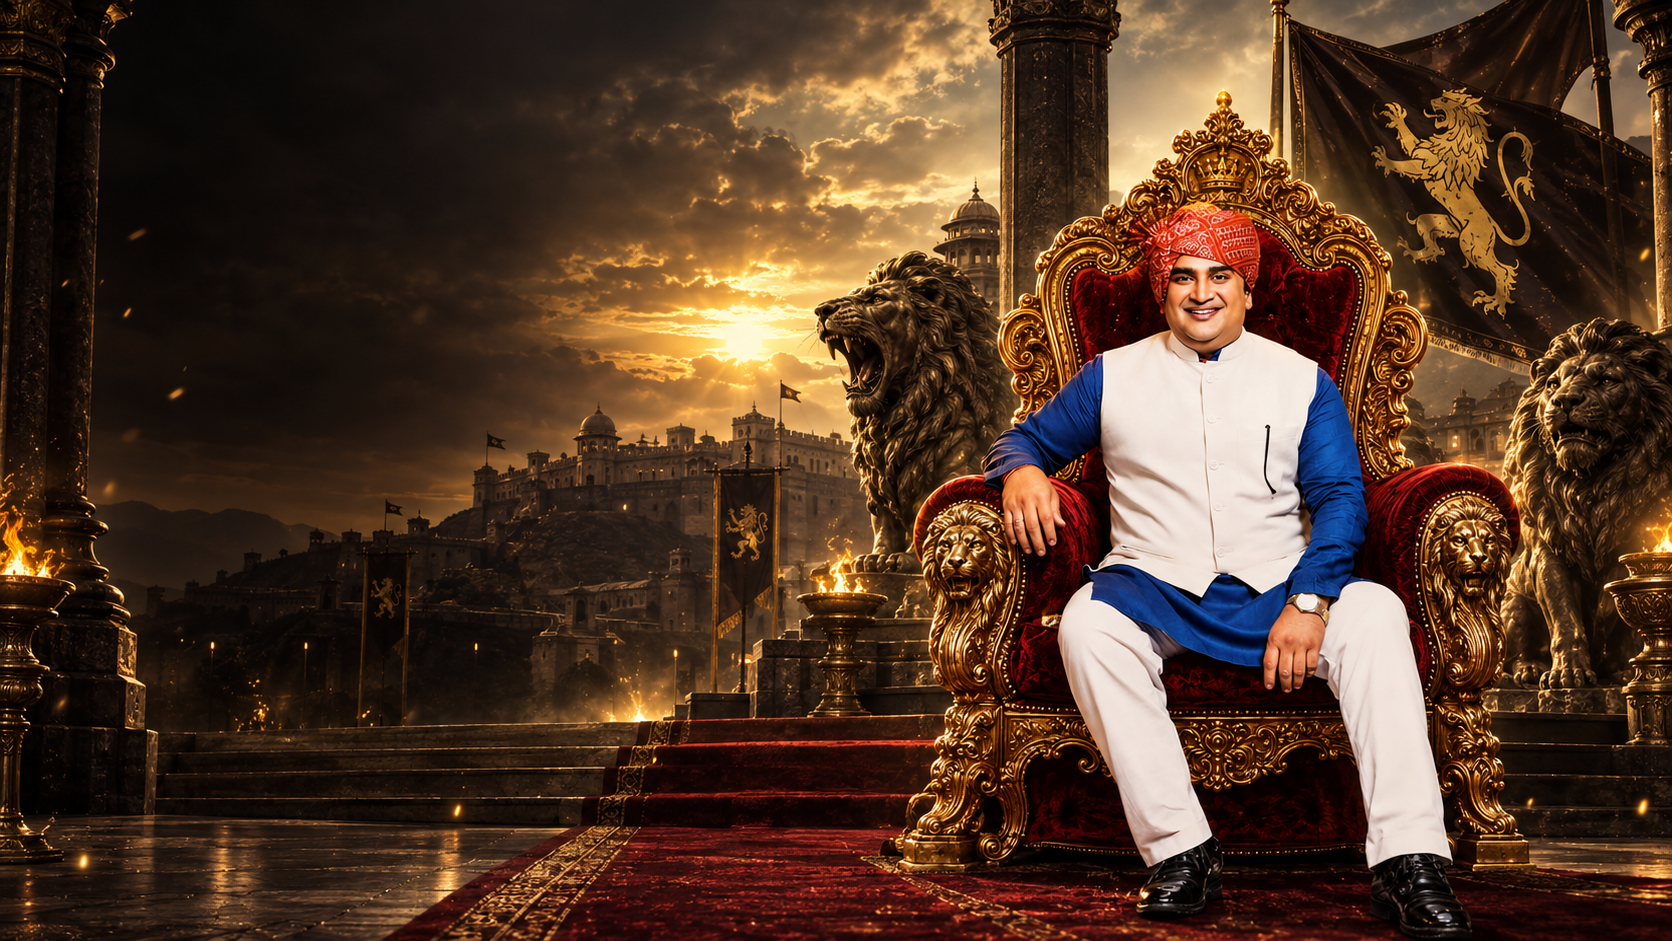
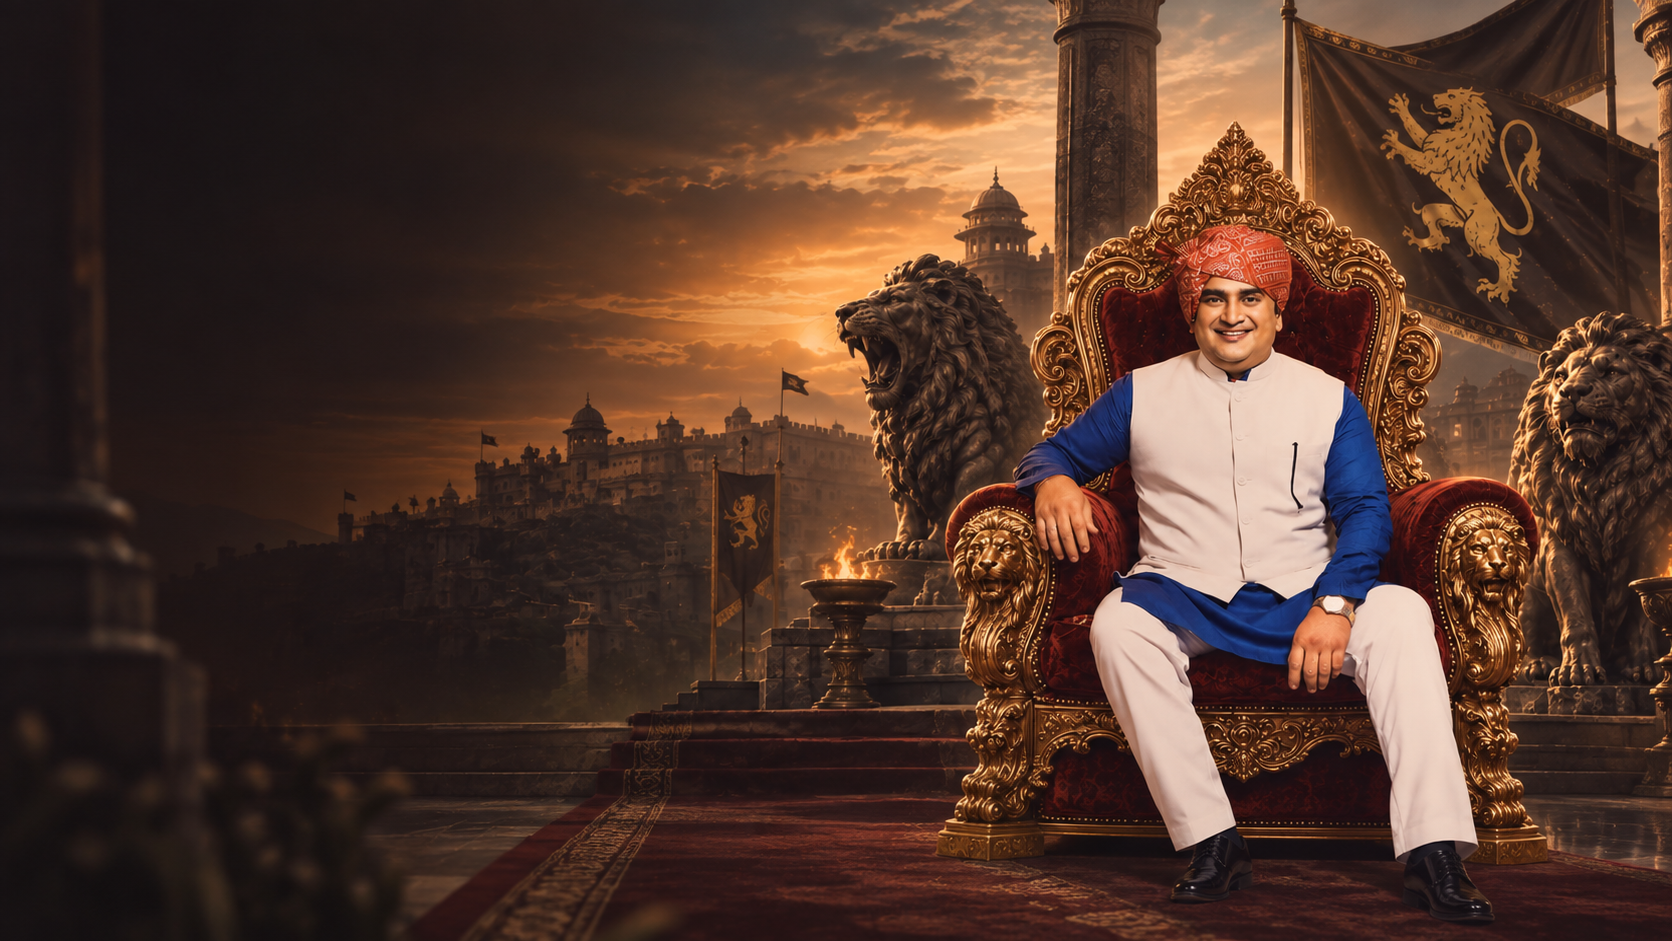
Add AI-generated local images to all sections

diff --git a/index.html b/index.html
@@ -57,12 +57,12 @@ footer{border-top:1px solid var(--line);padding:45px 0;background:#fff}.footgrid
 
 <section class="soft"><div class="wrap"><div class="heading"><span>उद्देश्य</span><h2>विकास और स्वच्छता का संकल्प</h2><p>वे मूल सिद्धांत जो सीहोर के विकास को गति दे रहे हैं।</p></div><div class="cards"><div class="card"><div class="cardbody"><h3>◎ ग्रीन सीहोर - क्लीन सीहोर</h3><p>रोड स्वीपिंग मशीन और निरंतर सफाई अभियानों के माध्यम से शहर को स्वच्छ बनाना।</p></div></div><div class="card"><div class="cardbody"><h3>♡ ढांचागत विकास</h3><p>वार्डों में सीसी रोड, पुलिया, और पेवर ब्लॉक निर्माण के लिए भूमि पूजन और तेजी से कार्य।</p></div></div><div class="card"><div class="cardbody"><h3>🏆 जनता से जुड़ाव</h3><p>कावड़ यात्रा, रथ यात्रा और विभिन्न धार्मिक आयोजनों में जनता के साथ सहभागिता।</p></div></div></div></div></section>
 
-<section id="eventsPreview"><div class="wrap"><div class="heading"><span>आयोजन</span><h2>कार्यक्रम एवं भूमि पूजन</h2></div><div class="cards"><div class="card"><img src="https://images.unsplash.com/photo-1540575467063-178a50c2df87?q=80&w=800&auto=format&fit=crop"><div class="cardbody"><span class="tag">7 अप्रैल 2025</span><h3>भाजपा का 46वां स्थापना दिवस</h3><p>वार्ड 15 के बूथ 211, 215, 216 में कार्यकर्ताओं के साथ बैठक और स्थापना दिवस पर चर्चा।</p></div></div><div class="card"><img src="https://images.unsplash.com/photo-1523580494112-071dcb84936a?q=80&w=800&auto=format&fit=crop"><div class="cardbody"><span class="tag">जून-जुलाई 2023</span><h3>विभिन्न वार्डों में विकास कार्य</h3><p>वार्ड 17, 20, 12, 11, और 4 में सीसी रोड, नाली, और पुलिया निर्माण हेतु भूमि पूजन।</p></div></div></div></div></section>
+<section id="eventsPreview"><div class="wrap"><div class="heading"><span>आयोजन</span><h2>कार्यक्रम एवं भूमि पूजन</h2></div><div class="cards"><div class="card"><img src="road_construction.png"><div class="cardbody"><span class="tag">7 अप्रैल 2025</span><h3>भाजपा का 46वां स्थापना दिवस</h3><p>वार्ड 15 के बूथ 211, 215, 216 में कार्यकर्ताओं के साथ बैठक और स्थापना दिवस पर चर्चा।</p></div></div><div class="card"><img src="road_construction.png"><div class="cardbody"><span class="tag">जून-जुलाई 2023</span><h3>विभिन्न वार्डों में विकास कार्य</h3><p>वार्ड 17, 20, 12, 11, और 4 में सीसी रोड, नाली, और पुलिया निर्माण हेतु भूमि पूजन।</p></div></div></div></div></section>
 
 <section class="soft"><div class="wrap"><div class="heading"><span>अपडेट रहें</span><h2>ताज़ा समाचार</h2></div><div class="cards">
-<div class="card"><img src="https://images.unsplash.com/photo-1584824486509-112e4181f1ce?q=80&w=800&auto=format&fit=crop"><div class="cardbody"><span class="tag">SWACHHATA</span><h3>सीहोर को मिला स्वच्छता में मुकाम</h3><p>स्वच्छता सर्वेक्षण 2024-25 में सीहोर नगर पालिका को देश में 6वां और म.प्र. में पहला स्थान।</p></div></div>
-<div class="card"><img src="https://images.unsplash.com/photo-1628126235206-5260b9ea6441?q=80&w=800&auto=format&fit=crop"><div class="cardbody"><span class="tag">DEVELOPMENT</span><h3>CM से 50 करोड़ की मांग</h3><p>CM डॉ. मोहन यादव के सीहोर आगमन पर स्वागत और विकास कार्यों के लिए 50 करोड़ की मांग।</p></div></div>
-<div class="card"><img src="https://images.unsplash.com/photo-1532375810565-c473f324422e?q=80&w=800&auto=format&fit=crop"><div class="cardbody"><span class="tag">CELEBRATION</span><h3>चंद्रयान-3 सफलता पर जुलूस</h3><p>चंद्रयान-3 की ऐतिहासिक सफलता पर सीहोर में विजय जुलूस और बधाइयाँ।</p></div></div>
+<div class="card"><img src="chandrayaan.png"><div class="cardbody"><span class="tag">SWACHHATA</span><h3>सीहोर को मिला स्वच्छता में मुकाम</h3><p>स्वच्छता सर्वेक्षण 2024-25 में सीहोर नगर पालिका को देश में 6वां और म.प्र. में पहला स्थान।</p></div></div>
+<div class="card"><img src="cm_meeting.png"><div class="cardbody"><span class="tag">DEVELOPMENT</span><h3>CM से 50 करोड़ की मांग</h3><p>CM डॉ. मोहन यादव के सीहोर आगमन पर स्वागत और विकास कार्यों के लिए 50 करोड़ की मांग।</p></div></div>
+<div class="card"><img src="chandrayaan.png"><div class="cardbody"><span class="tag">CELEBRATION</span><h3>चंद्रयान-3 सफलता पर जुलूस</h3><p>चंद्रयान-3 की ऐतिहासिक सफलता पर सीहोर में विजय जुलूस और बधाइयाँ।</p></div></div>
 </div></div></section>
 </div>
 
@@ -79,27 +79,27 @@ footer{border-top:1px solid var(--line);padding:45px 0;background:#fff}.footgrid
 
 <!-- EVENTS -->
 <div id="events" class="page"><section class="pagehero"><div class="wrap"><span class="kicker">कार्यक्रम</span><h1>कार्यक्रम और आयोजन</h1><p>प्रमुख विकास कार्य और जन-सहभागिता के कार्यक्रम।</p></div></section><section><div class="wrap cards">
-<div class="card"><img src="https://images.unsplash.com/photo-1540575467063-178a50c2df87?q=80&w=800&auto=format&fit=crop"><div class="cardbody"><span class="tag">7 अप्रैल 2025</span><h3>भाजपा स्थापना दिवस</h3><p>वार्ड 15 के विभिन्न बूथों में कार्यकर्ताओं के साथ स्थापना दिवस पर महत्वपूर्ण बैठक।</p></div></div>
-<div class="card"><img src="https://images.unsplash.com/photo-1523580494112-071dcb84936a?q=80&w=800&auto=format&fit=crop"><div class="cardbody"><span class="tag">जून-जुलाई 2023</span><h3>वार्डों में विकास कार्यों का भूमि पूजन</h3><p>वार्ड 4, 11, 12, 15, 17, 18, 20 में सीसी रोड, नाली, पुलिया, पेवर ब्लॉक आदि के निर्माण कार्यों का शुभारंभ।</p></div></div>
-<div class="card"><img src="https://images.unsplash.com/photo-1596422846543-75c6fc197f07?q=80&w=800&auto=format&fit=crop"><div class="cardbody"><span class="tag">20 जून 2023</span><h3>भगवान श्री जगन्नाथ रथ यात्रा</h3><p>रथ यात्रा का स्वागत, यात्रा के पीछे सफाई अभियान, और भंडारे की व्यवस्था।</p></div></div>
-<div class="card"><img src="https://images.unsplash.com/photo-1628126235206-5260b9ea6441?q=80&w=800&auto=format&fit=crop"><div class="cardbody"><span class="tag">अगस्त 2022</span><h3>बाढ़ राहत शिविर व्यवस्था</h3><p>आपदा के समय जनता की सेवा के लिए बाढ़ राहत शिविरों का आयोजन और व्यवस्था।</p></div></div>
+<div class="card"><img src="road_construction.png"><div class="cardbody"><span class="tag">7 अप्रैल 2025</span><h3>भाजपा स्थापना दिवस</h3><p>वार्ड 15 के विभिन्न बूथों में कार्यकर्ताओं के साथ स्थापना दिवस पर महत्वपूर्ण बैठक।</p></div></div>
+<div class="card"><img src="road_construction.png"><div class="cardbody"><span class="tag">जून-जुलाई 2023</span><h3>वार्डों में विकास कार्यों का भूमि पूजन</h3><p>वार्ड 4, 11, 12, 15, 17, 18, 20 में सीसी रोड, नाली, पुलिया, पेवर ब्लॉक आदि के निर्माण कार्यों का शुभारंभ।</p></div></div>
+<div class="card"><img src="rath_yatra.png"><div class="cardbody"><span class="tag">20 जून 2023</span><h3>भगवान श्री जगन्नाथ रथ यात्रा</h3><p>रथ यात्रा का स्वागत, यात्रा के पीछे सफाई अभियान, और भंडारे की व्यवस्था।</p></div></div>
+<div class="card"><img src="cm_meeting.png"><div class="cardbody"><span class="tag">अगस्त 2022</span><h3>बाढ़ राहत शिविर व्यवस्था</h3><p>आपदा के समय जनता की सेवा के लिए बाढ़ राहत शिविरों का आयोजन और व्यवस्था।</p></div></div>
 </div></section></div>
 
 <!-- NEWS -->
 <div id="news" class="page"><section class="pagehero"><div class="wrap"><span class="kicker">समाचार</span><h1>ताज़ा समाचार</h1><p>उपलब्ध समाचार और प्रेस सामग्री का संग्रह।</p></div></section><section><div class="wrap cards">
-<div class="card"><img src="https://images.unsplash.com/photo-1584824486509-112e4181f1ce?q=80&w=800&auto=format&fit=crop"><div class="cardbody"><span class="tag">PRESS</span><h3>सीहोर को मिला स्वच्छता में 6ठा स्थान</h3><p>स्वच्छता सर्वेक्षण 2024-25 में सीहोर नगर पालिका को देश में 6वां और म.प्र. में प्रथम स्थान प्राप्त हुआ। प्रेसवार्ता में नंबर 1 बनने का लक्ष्य रखा गया।</p></div></div>
-<div class="card"><img src="https://images.unsplash.com/photo-1532375810565-c473f324422e?q=80&w=800&auto=format&fit=crop"><div class="cardbody"><span class="tag">PRESS</span><h3>CM के आगमन पर 50 करोड़ का ज्ञापन</h3><p>मुख्यमंत्री डॉ. मोहन यादव के सीहोर आगमन पर स्वागत किया गया और शहर के विकास हेतु 50 करोड़ की मांग रखी गई।</p></div></div>
-<div class="card"><img src="https://images.unsplash.com/photo-1628126235206-5260b9ea6441?q=80&w=800&auto=format&fit=crop"><div class="cardbody"><span class="tag">PRESS</span><h3>स्वच्छता समीक्षा बैठक और अभियान</h3><p>रोड स्वीपिंग मशीन से सड़क सफाई और "ग्रीन सीहोर-क्लीन सीहोर" के तहत निरंतर निरीक्षण।</p></div></div>
+<div class="card"><img src="chandrayaan.png"><div class="cardbody"><span class="tag">PRESS</span><h3>सीहोर को मिला स्वच्छता में 6ठा स्थान</h3><p>स्वच्छता सर्वेक्षण 2024-25 में सीहोर नगर पालिका को देश में 6वां और म.प्र. में प्रथम स्थान प्राप्त हुआ। प्रेसवार्ता में नंबर 1 बनने का लक्ष्य रखा गया।</p></div></div>
+<div class="card"><img src="cm_meeting.png"><div class="cardbody"><span class="tag">PRESS</span><h3>CM के आगमन पर 50 करोड़ का ज्ञापन</h3><p>मुख्यमंत्री डॉ. मोहन यादव के सीहोर आगमन पर स्वागत किया गया और शहर के विकास हेतु 50 करोड़ की मांग रखी गई।</p></div></div>
+<div class="card"><img src="road_construction.png"><div class="cardbody"><span class="tag">PRESS</span><h3>स्वच्छता समीक्षा बैठक और अभियान</h3><p>रोड स्वीपिंग मशीन से सड़क सफाई और "ग्रीन सीहोर-क्लीन सीहोर" के तहत निरंतर निरीक्षण।</p></div></div>
 </div></section></div>
 
 <!-- GALLERY -->
 <div id="gallery" class="page"><section class="pagehero"><div class="wrap"><span class="kicker">गैलरी</span><h1>यादगार पल</h1><p>सामुदायिक पहलों, कार्यक्रमों और विकास कार्यों की एक झलक।</p></div></section><section><div class="wrap gallery">
-<img onclick="openImg(this.src)" src="https://images.unsplash.com/photo-1540575467063-178a50c2df87?q=80&w=800&auto=format&fit=crop">
-<img onclick="openImg(this.src)" src="https://images.unsplash.com/photo-1523580494112-071dcb84936a?q=80&w=800&auto=format&fit=crop">
-<img onclick="openImg(this.src)" src="https://images.unsplash.com/photo-1596422846543-75c6fc197f07?q=80&w=800&auto=format&fit=crop">
-<img onclick="openImg(this.src)" src="https://images.unsplash.com/photo-1584824486509-112e4181f1ce?q=80&w=800&auto=format&fit=crop">
-<img onclick="openImg(this.src)" src="https://images.unsplash.com/photo-1532375810565-c473f324422e?q=80&w=800&auto=format&fit=crop">
-<img onclick="openImg(this.src)" src="https://images.unsplash.com/photo-1628126235206-5260b9ea6441?q=80&w=800&auto=format&fit=crop">
+<img onclick="openImg(this.src)" src="road_construction.png">
+<img onclick="openImg(this.src)" src="rath_yatra.png">
+<img onclick="openImg(this.src)" src="rath_yatra.png">
+<img onclick="openImg(this.src)" src="chandrayaan.png">
+<img onclick="openImg(this.src)" src="cm_meeting.png">
+<img onclick="openImg(this.src)" src="chandrayaan.png">
 </div></section></div>
 
 <!-- CONTACT -->
